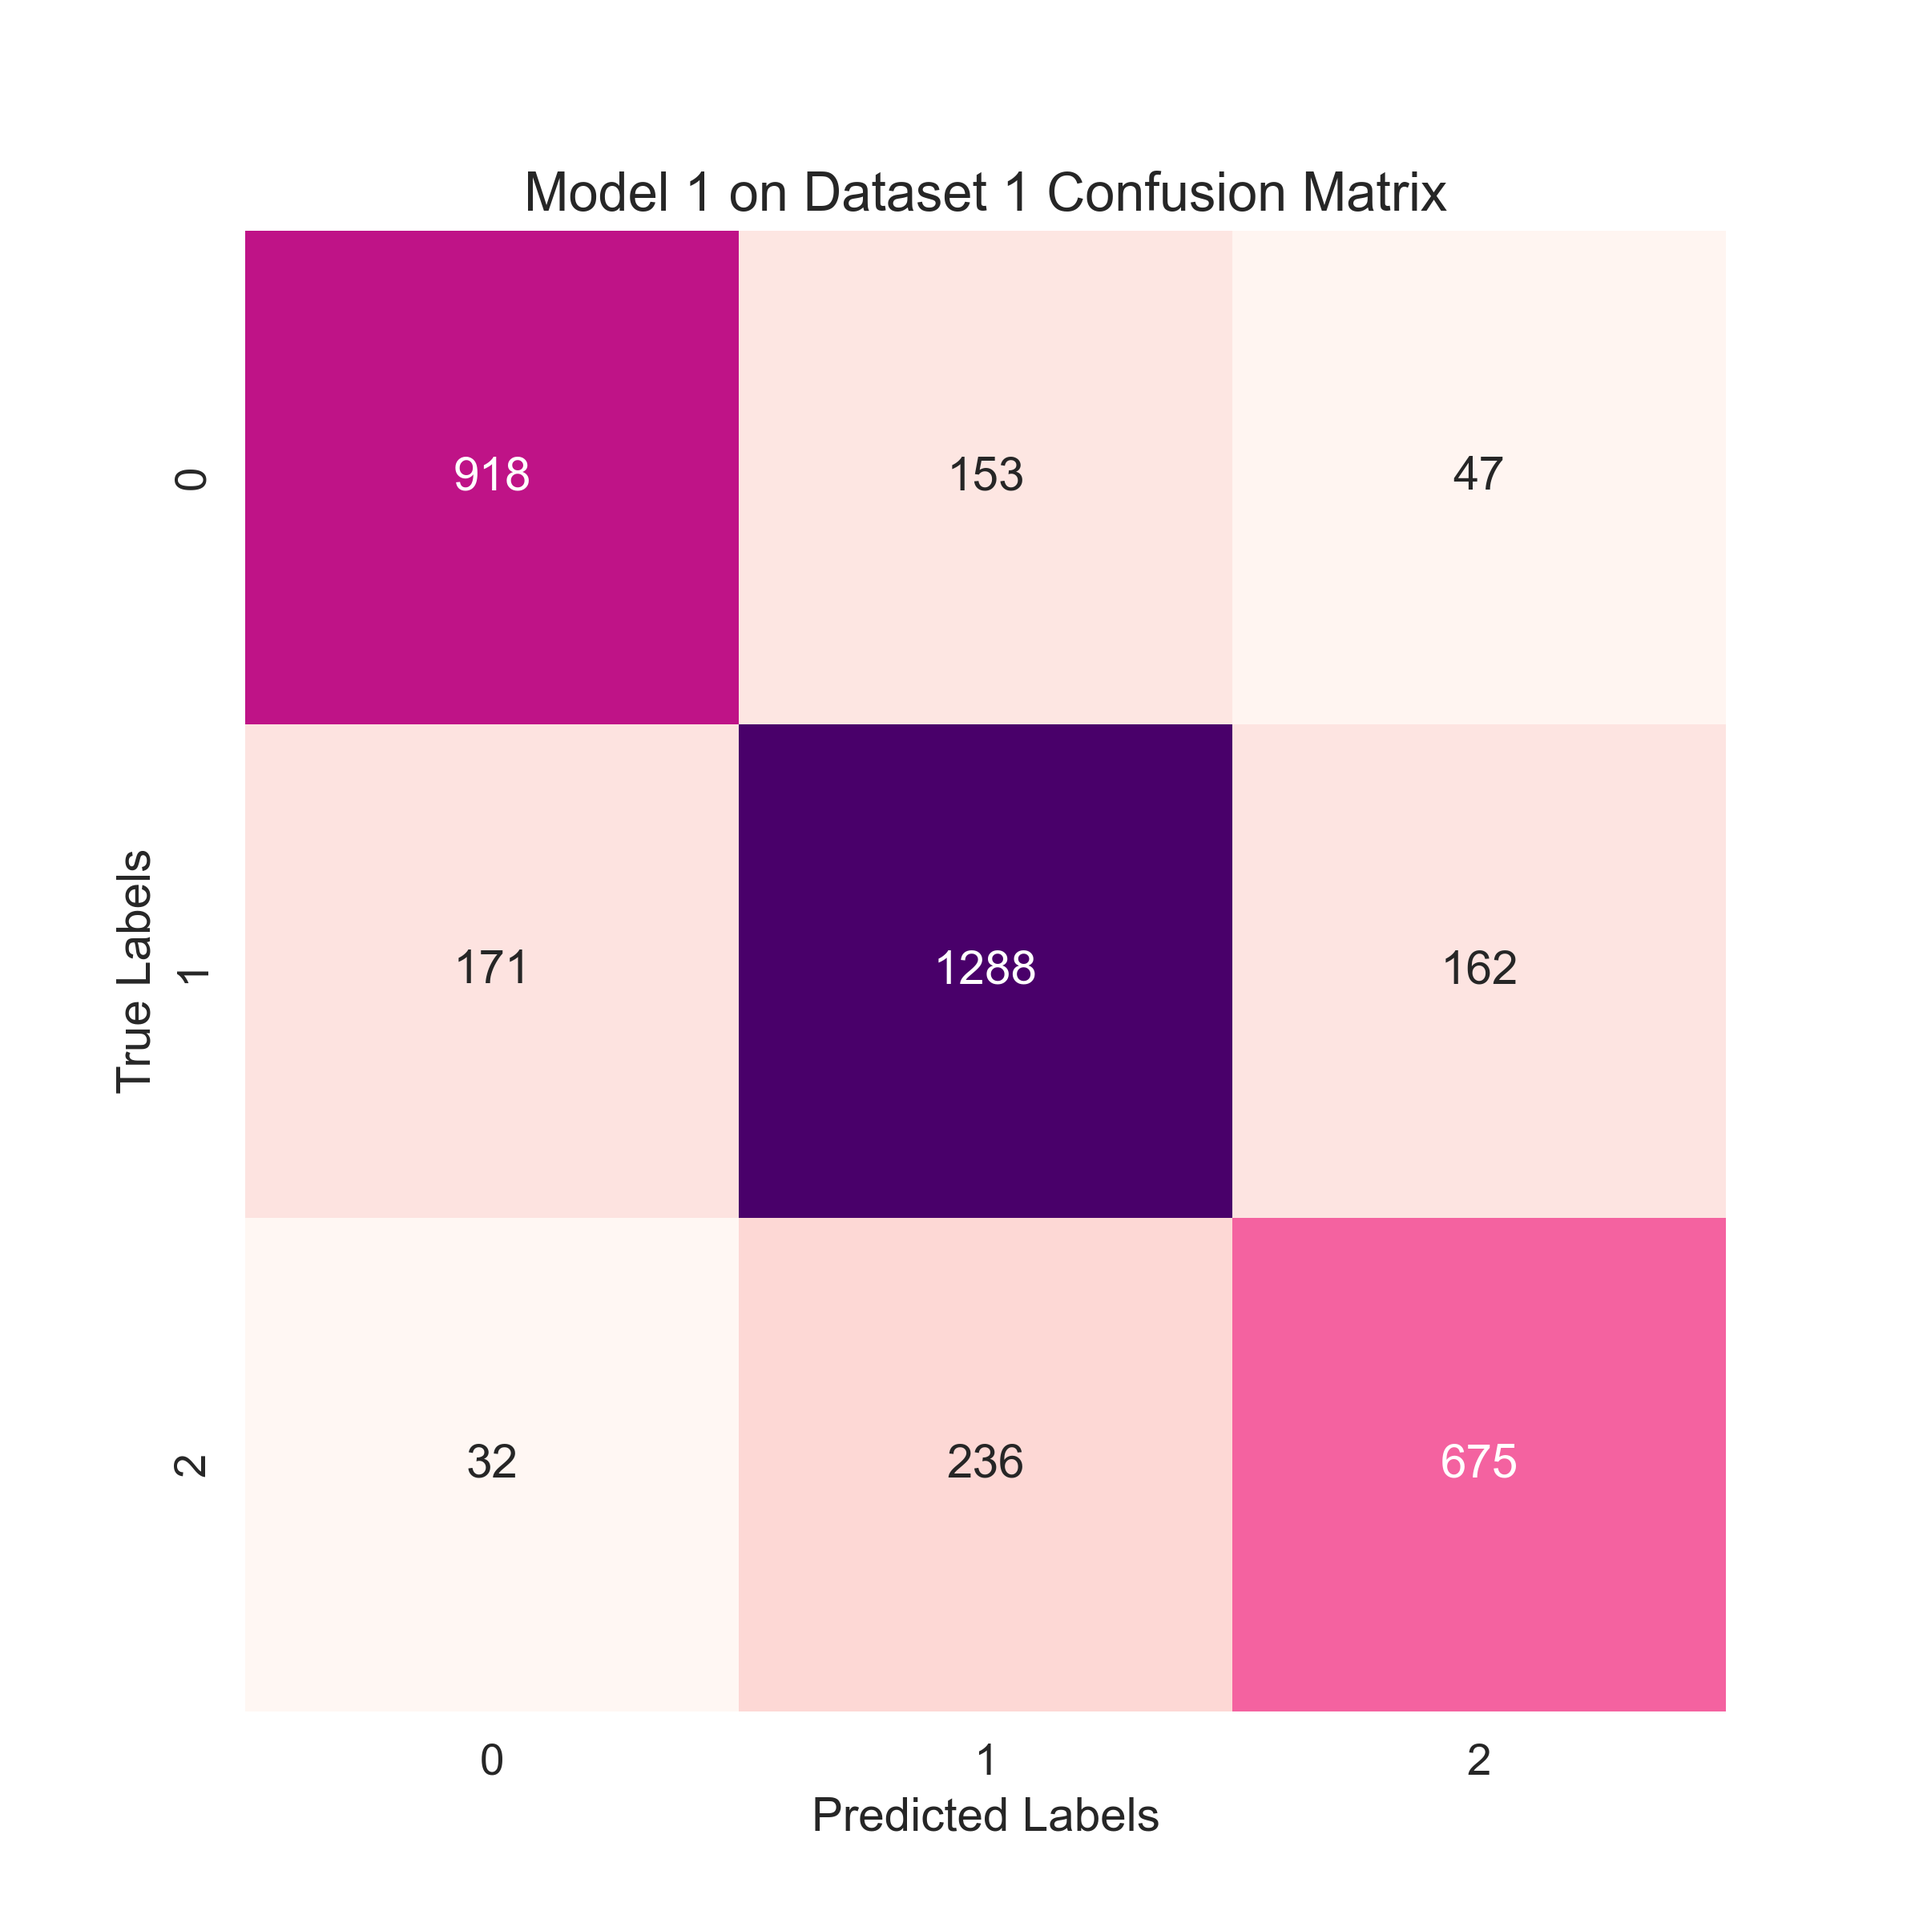
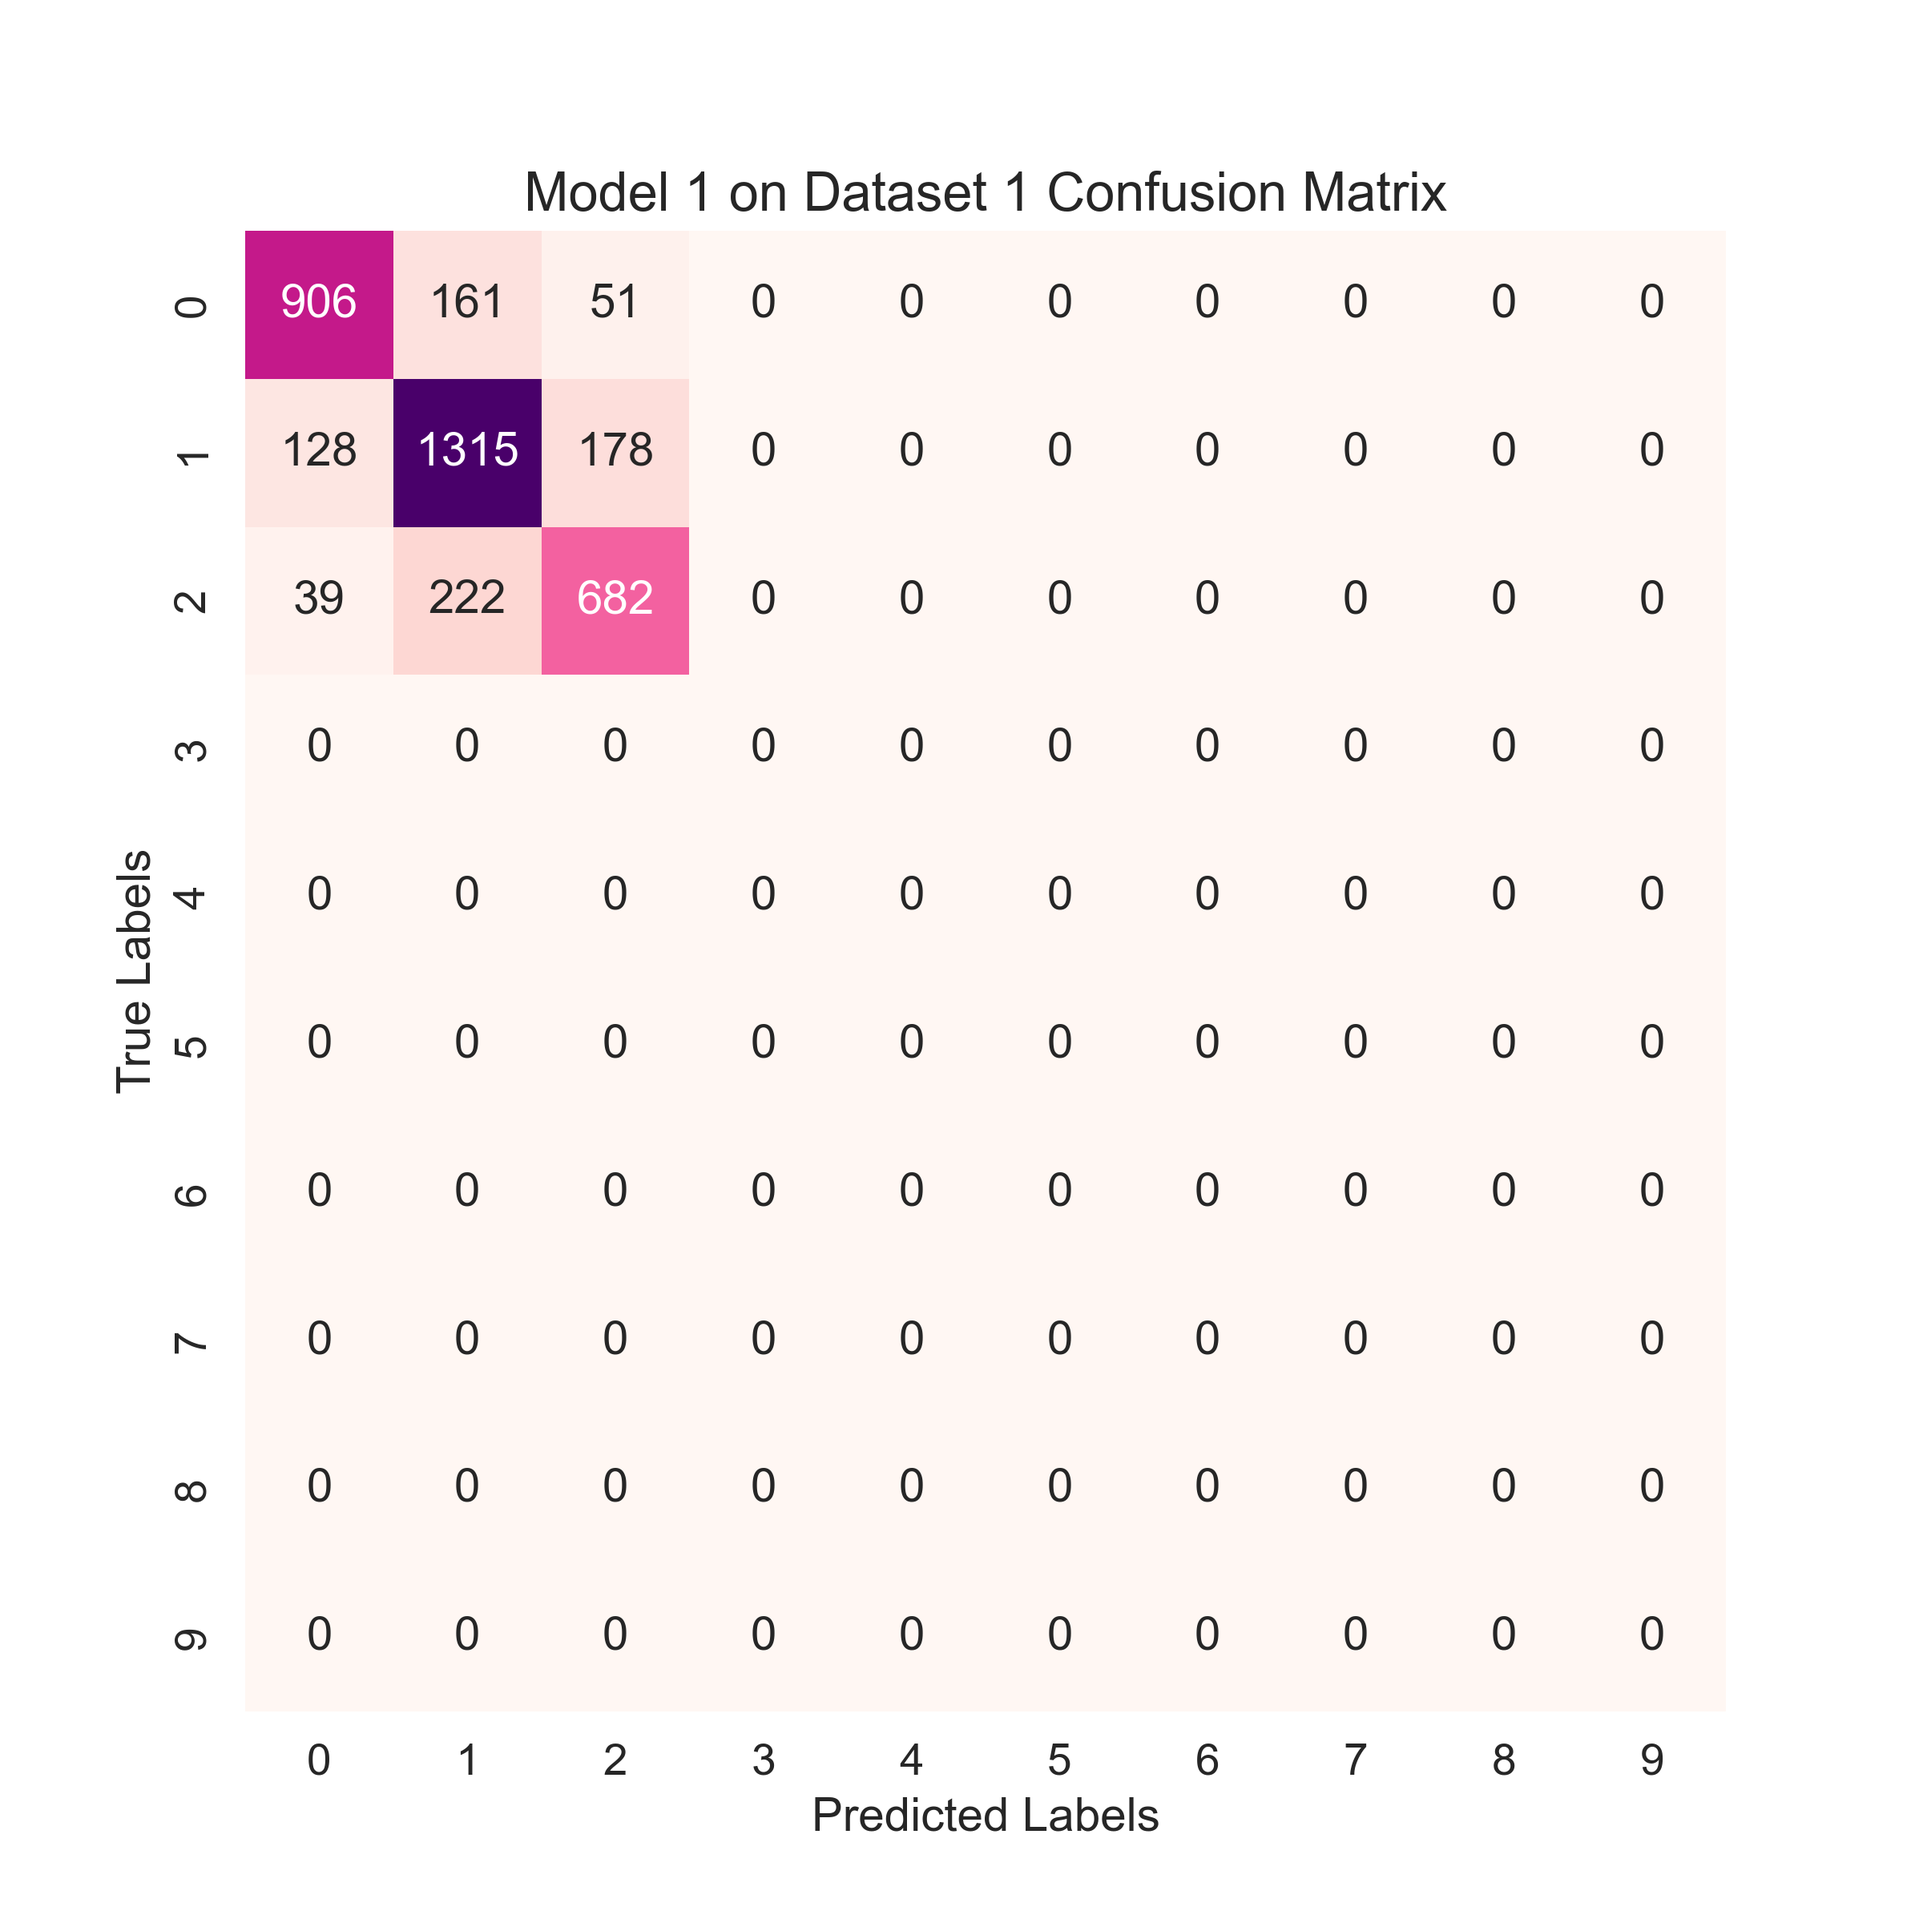
Fixes

diff --git a/Project/Evaluate_Models.py b/Project/Evaluate_Models.py
@@ -4,6 +4,7 @@ from torch.utils.data import DataLoader
 from Config_Manager import get_dataset, compute_metrics, evaluate_model, SEED, CLASSES, EPOCHS, LEARNING_RATE, BATCH_SIZE, DEVICE, save_cm
 from sklearn import metrics
 import matplotlib.pyplot as plt
+import numpy as np
 """
 HYPER PARAMS FROM CONFIG FILE
 """
@@ -33,7 +34,8 @@ print("Precision:", custom_metrics_dict["precision"])
 print("recall:", custom_metrics_dict["recall"])
 print("Cohen's Kappa:", custom_metrics_dict["cohenkappa"])
 print("==============================================================\n\n")
-save_cm(custom_metrics_dict["confusion_matrix"], "Model_1_Dataset1", "Model 1 on Dataset 1 Confusion Matrix")
+print(custom_metrics_dict["confusion_matrix"])
+save_cm(custom_metrics_dict["confusion_matrix"], "Model_1_Dataset1", "Model 1 on Dataset 1 Confusion Matrix") #3x3 confusion matrix
 
 custom_metrics_dict = evaluate_model(model_2_no_sil, test_2_dataloader)
 print("===========NO SIL MODEL ON DATASET 2 (Masakhane) REPORT===========")
@@ -43,9 +45,11 @@ print("Precision:", custom_metrics_dict["precision"])
 print("recall:", custom_metrics_dict["recall"])
 print("Cohen's Kappa:", custom_metrics_dict["cohenkappa"])
 print("==================================================================\n\n")
-save_cm(custom_metrics_dict["confusion_matrix"], "Model_2_NoSil_Dataset2", "Model 2 (No SIL) on Dataset 2 Confusion Matrix")
+save_cm(custom_metrics_dict["confusion_matrix"], "Model_2_NoSil_Dataset2", "Model 2 (No SIL) on Dataset 2 Confusion Matrix") #10x10 confusion matrix
 
-#Predictions for Model 2 on Dataset 1:
+# #Predictions for Model 2 on Dataset 1:
+
+
 
 custom_metrics_dict = evaluate_model(model_2_no_sil, test_1_dataloader)
 print("===========NO SIL MODEL ON DATASET 1 (NaijaSenti) REPORT===========")
@@ -58,9 +62,9 @@ print("===================================================================\n\n")
 save_cm(custom_metrics_dict["confusion_matrix"], "Model_2_NoSil_Dataset1", "Model 2 (No SIL) on Dataset 1 Confusion Matrix")
 
 
-"""
-SIL MODEL 
-"""
+# """
+# SIL MODEL 
+# """
 
 #Predictions for SIL Model 2 on Dataset 2:
 custom_metrics_dict = evaluate_model(model_2_sil, test_2_dataloader)

diff --git a/Project/Config_Manager.py b/Project/Config_Manager.py
@@ -143,7 +143,20 @@ def compute_metrics(logits, labels):
 
     cohens_kappa=cohen_kappa_score(labels, predictions)
 
-    conf_matrx = confusion_matrix(labels, predictions)
+    label_names = [
+        "Positive",
+        "Neutral",
+        "Negative",
+
+        "Business",
+        "Entertainment",
+        "Health",
+        "Politics",
+        "Religion",
+        "Sport",
+        "Technology"
+    ]
+    conf_matrx = confusion_matrix(labels, predictions, labels=np.arange(10))
 
     return {
         "accuracy": accuracy['accuracy'],
